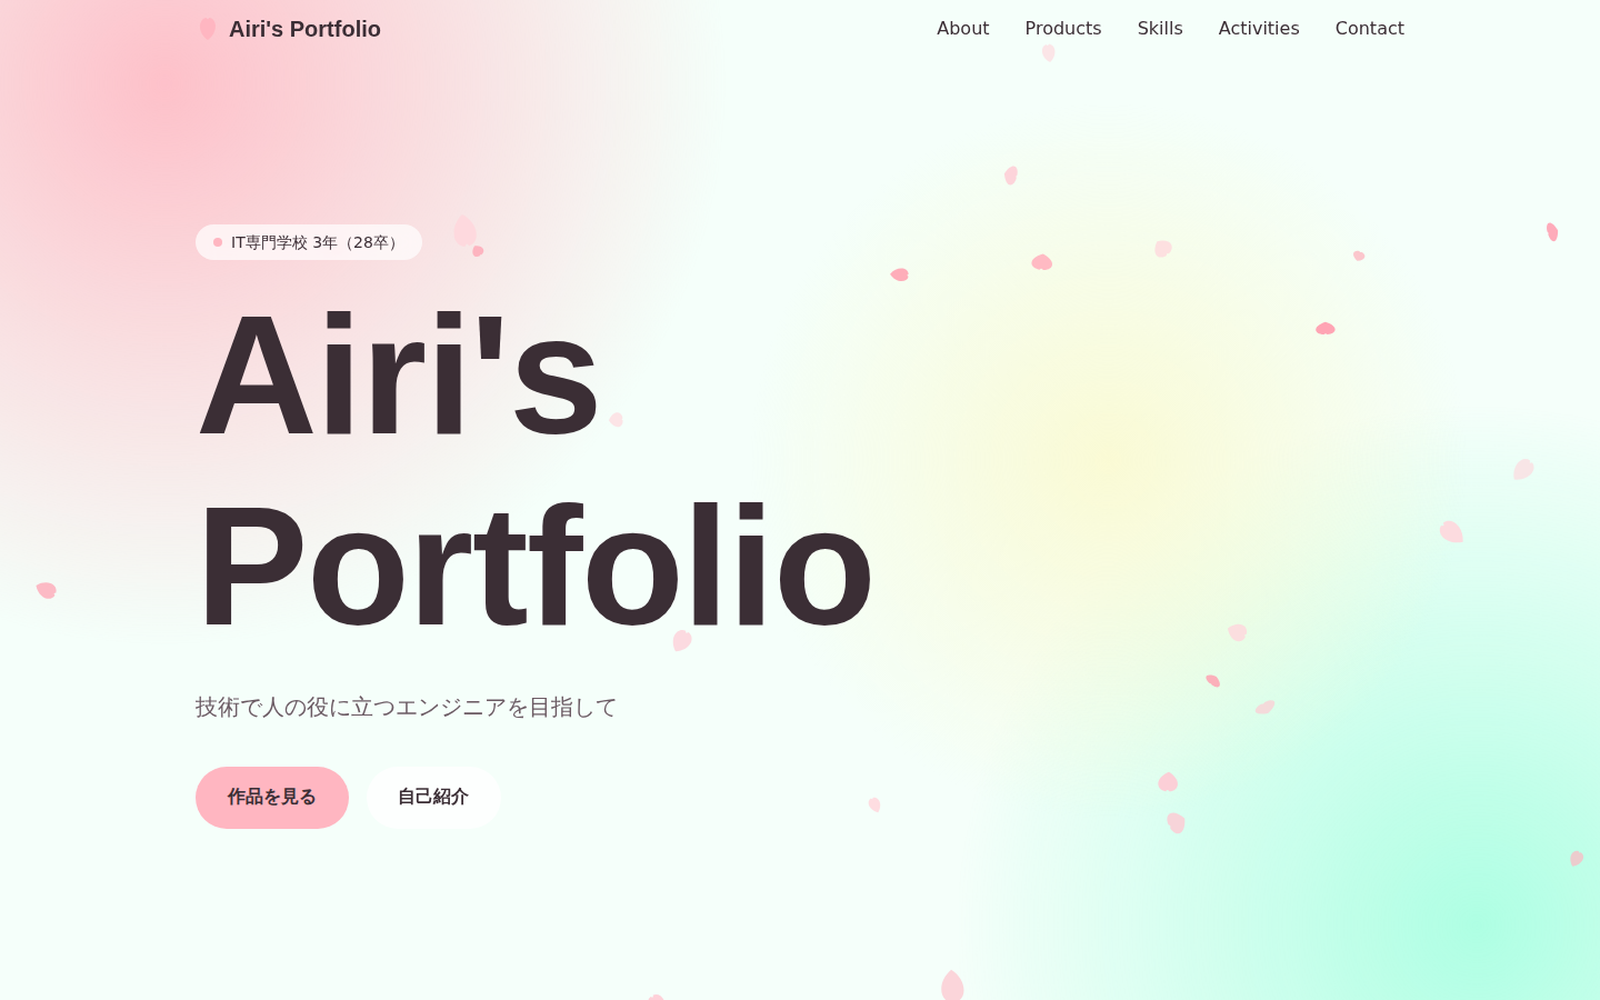
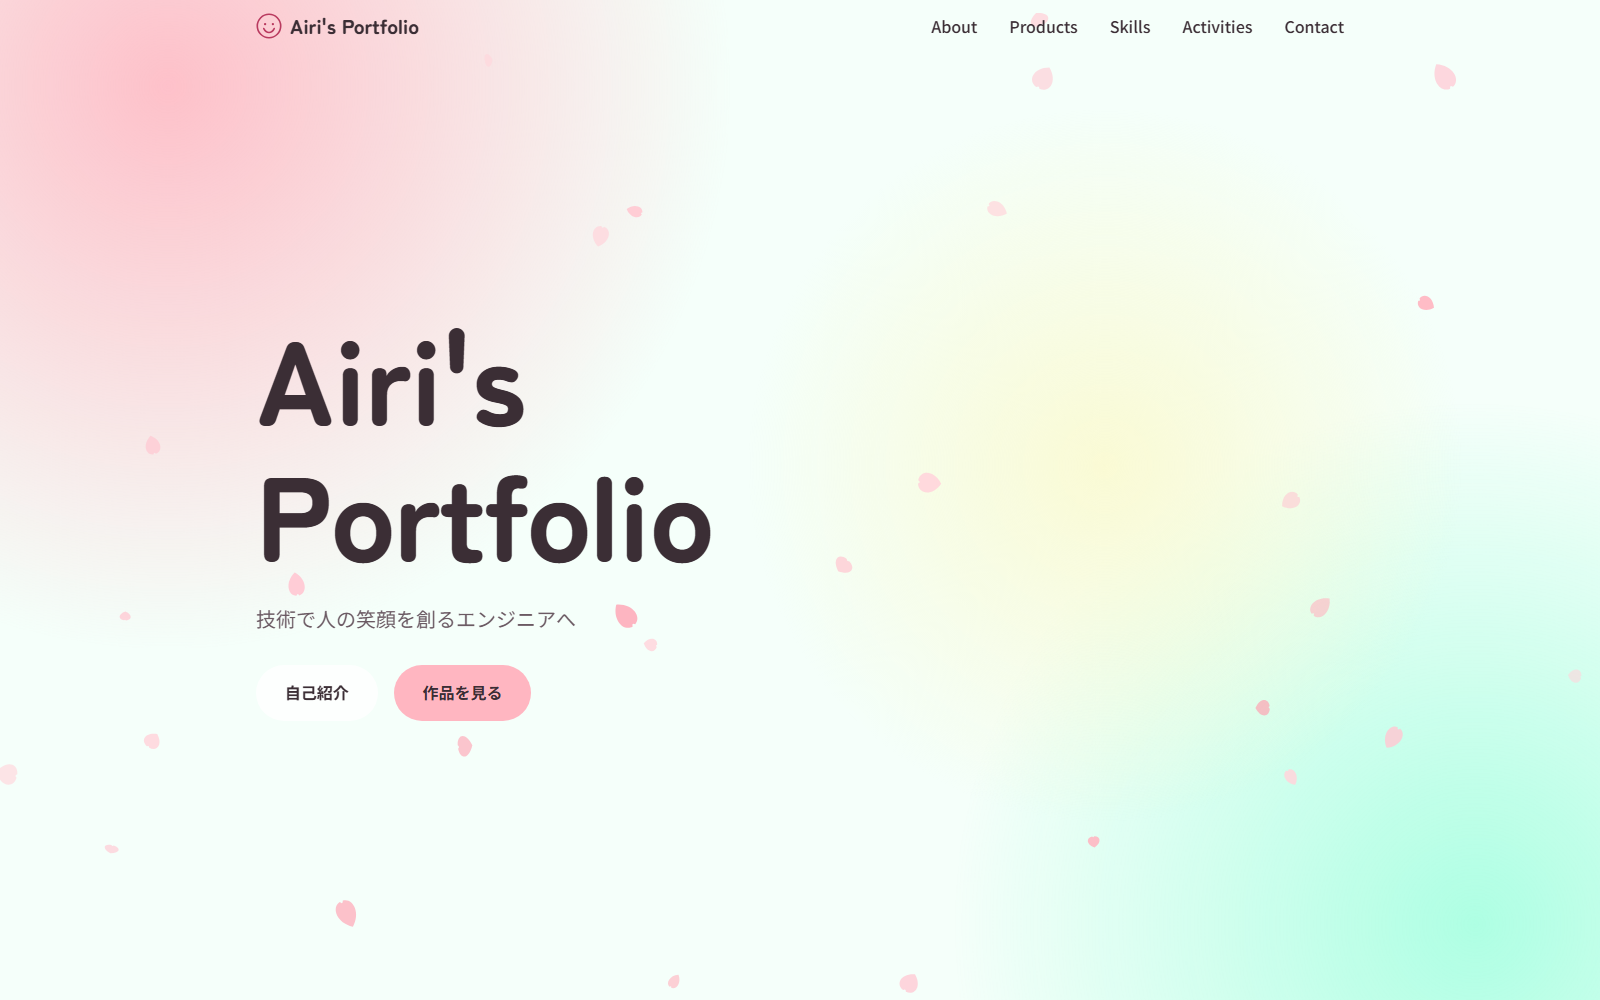
fix: ヘッダーアイコン・作品サムネイル・カード演出まわりの見た目を調整
- ヘッダーのロゴを花びら→にっこりマークに変更し、視認性の良い色に調整
- Heroのステータスバッジを削除し、ボタンの並び順を自己紹介→作品を見るに変更
- 作品の表示順を調整（LiveFx/保育園シフト管理システム）
- 詳細ページの作品画像をクロップ・余白なしで元の比率のまま表示するよう変更
  （一覧カードは従来通り16:10で統一）
- My Siteのサムネイルを現在のトップページのスクリーンショットに更新
- ページ遷移アニメーション中に画像の角が一瞬四角くなる問題を修正
- 作品カードのカーソル追従グローが、枠外に出た瞬間に中央へ戻ってしまう問題を修正

diff --git a/src/data/site.ts b/src/data/site.ts
@@ -4,8 +4,7 @@ export const site = {
   url: 'https://okamoto-airi.github.io/my-portfoliosite/',
   description:
     'Okamoto Airi（IT専門学校3年・28卒）のポートフォリオ。Web技術を中心とした制作物、スキル、活動をまとめています。',
-  tagline: '技術で人の役に立つエンジニアを目指して',
-  status: 'IT専門学校 3年（28卒）',
+  tagline: '技術で人の笑顔を創るエンジニアへ',
   email: 'okamoto.airi.0123@gmail.com',
   github: 'https://github.com/Okamoto-Airi',
 } as const;

diff --git a/src/scripts/glow.ts b/src/scripts/glow.ts
@@ -23,9 +23,8 @@ export function initGlow(selector = '[data-glow]') {
     });
 
     el.addEventListener('pointerleave', () => {
+      // 位置はそのまま残し、最後にいた場所からフェードアウトさせる（中央へ戻さない）
       cancelAnimationFrame(raf);
-      el.style.removeProperty('--mx');
-      el.style.removeProperty('--my');
     });
   });
 }
